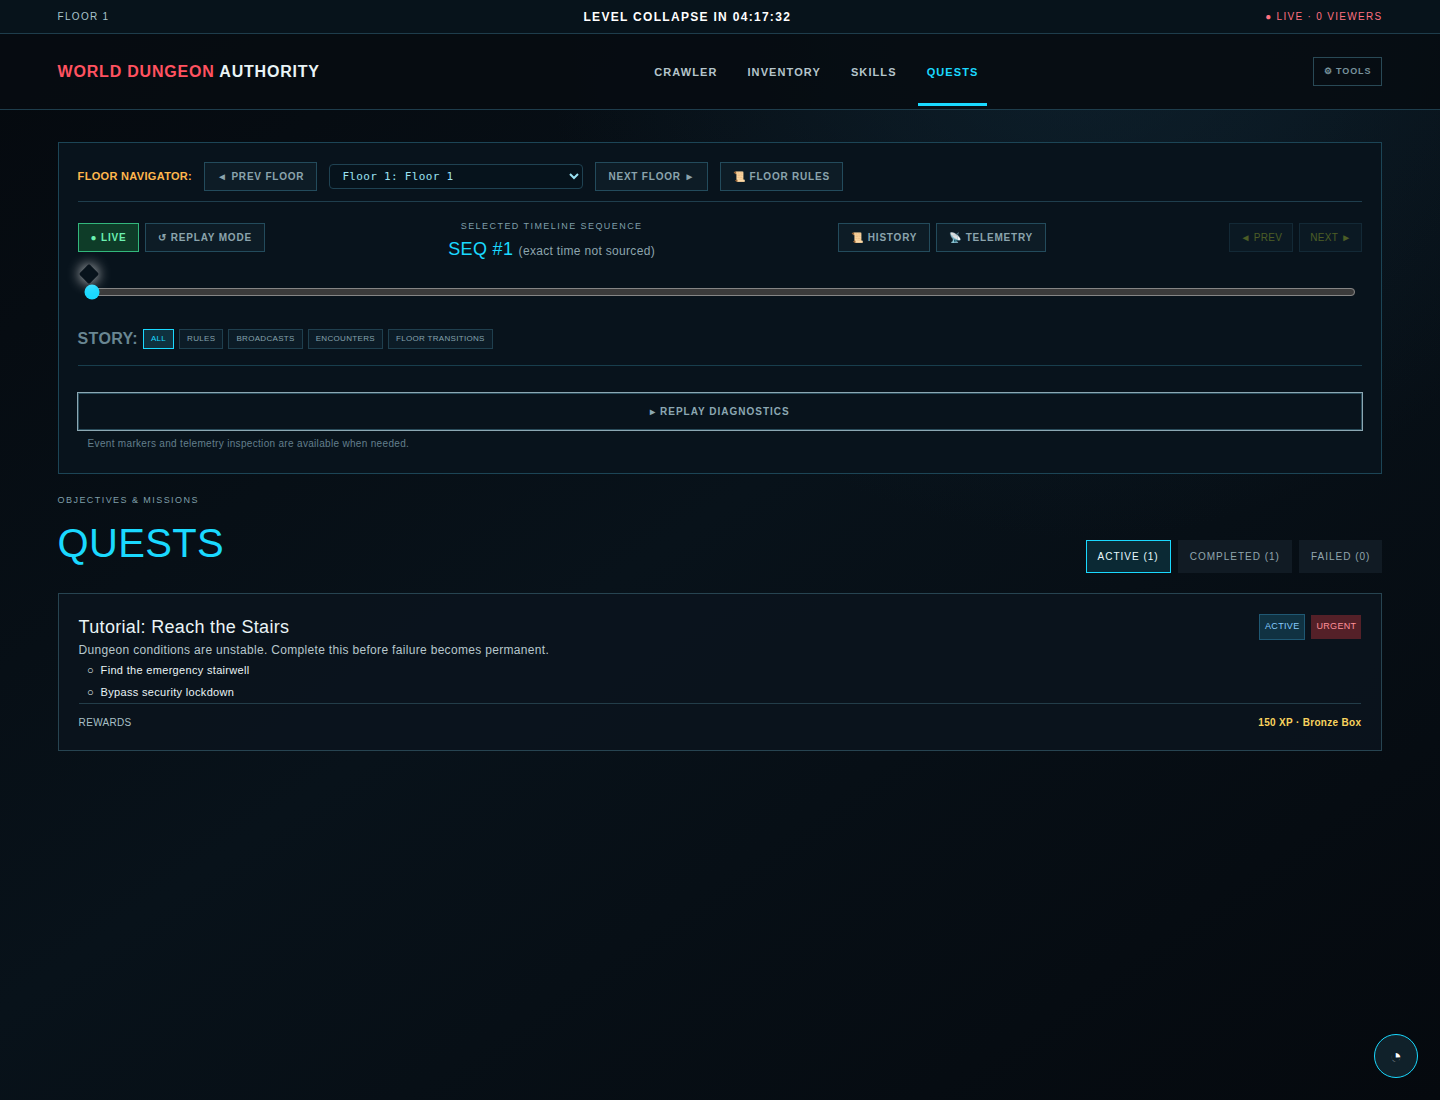
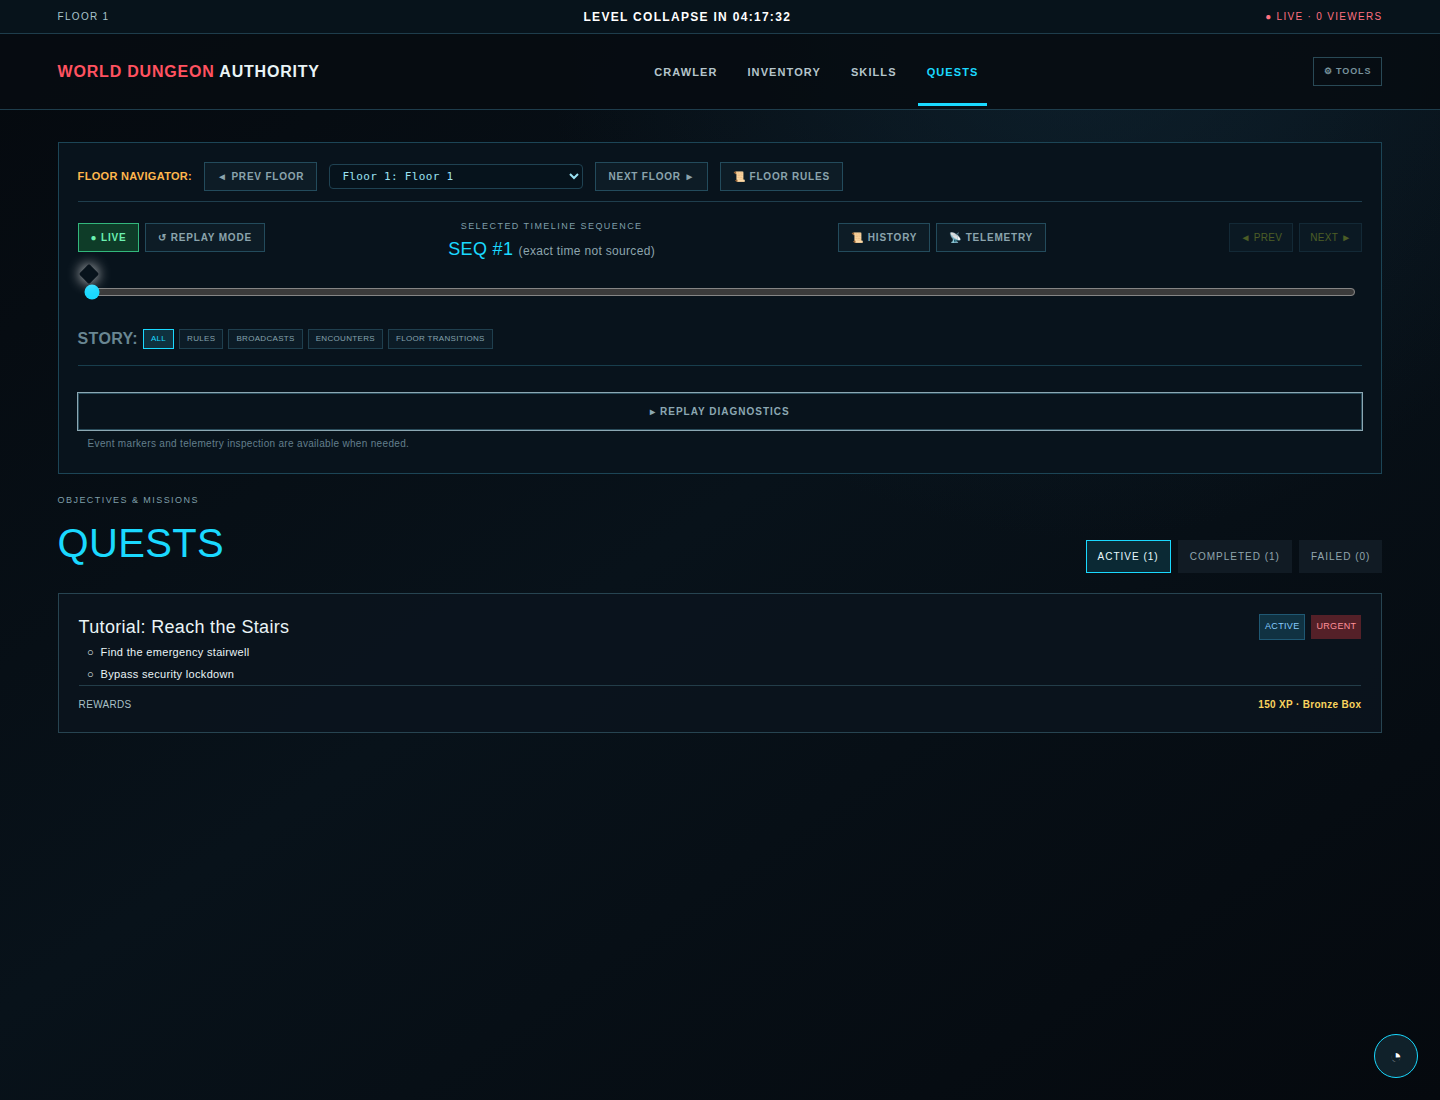
Handle quests with missing status and avoid empty quests view; add legacy fixture and update tests (#116)
* chore: remove unsupported quest screenshot

* chore: update Maritime architecture baseline

* fix: keep quest filter valid during replay

* test: cover quest filter replay fallback

* ci: force canonical screenshot regeneration

* chore: update Maritime architecture baseline

* test: keep screenshot scenarios on valid quest data

* docs(assets): refresh interface screenshots

---------

Changed region(s): [[0.0625, 0.5873, 0.375, 0.68], [0.875, 0.6182, 0.9375, 0.68]]

diff --git a/src/features/quests/QuestsView.tsx b/src/features/quests/QuestsView.tsx
@@ -7,28 +7,49 @@ interface QuestsViewProps {
   quests: Quest[];
 }
 
+type QuestFilter = "ACTIVE" | "COMPLETED" | "FAILED" | "UNKNOWN";
+type QuestWithStatus = Quest & { status: NonNullable<Quest["status"]> };
+
+function hasStatus(status: NonNullable<Quest["status"]>) {
+  return (quest: Quest): quest is QuestWithStatus => quest.status === status;
+}
+
 export function QuestsView({ quests }: QuestsViewProps) {
-  const [filter, setFilter] = useState<"ACTIVE" | "COMPLETED" | "FAILED">("ACTIVE");
+  const [filter, setFilter] = useState<QuestFilter>("ACTIVE");
 
   const activeQuests = useMemo(
-    () => quests.filter((q) => !q.status || q.status === "active"),
+    () => quests.filter(hasStatus("active")),
     [quests]
   );
   const completedQuests = useMemo(
-    () => quests.filter((q) => q.status === "completed"),
+    () => quests.filter(hasStatus("completed")),
     [quests]
   );
   const failedQuests = useMemo(
-    () => quests.filter((q) => q.status === "failed"),
+    () => quests.filter(hasStatus("failed")),
+    [quests]
+  );
+  const unknownQuests = useMemo(
+    () => quests.filter((quest) => quest.status === undefined),
     [quests]
   );
 
+  const hasUnknownQuests = unknownQuests.length > 0;
+  // Replay can move past the point where a statusless quest gains a known
+  // status. Keep the visible filter valid without synchronously setting state
+  // from an effect; if UNKNOWN is unavailable, present ACTIVE as the fallback.
+  const effectiveFilter: QuestFilter = filter === "UNKNOWN" && !hasUnknownQuests
+    ? "ACTIVE"
+    : filter;
+
   const displayedQuests =
-    filter === "ACTIVE"
+    effectiveFilter === "ACTIVE"
       ? activeQuests
-      : filter === "COMPLETED"
+      : effectiveFilter === "COMPLETED"
       ? completedQuests
-      : failedQuests;
+      : effectiveFilter === "FAILED"
+      ? failedQuests
+      : unknownQuests;
 
   return (
     <section className="view-content">
@@ -39,23 +60,31 @@ export function QuestsView({ quests }: QuestsViewProps) {
         </div>
         <div className="subnav" aria-label="Quest status filters">
           <button
-            className={filter === "ACTIVE" ? "on" : ""}
+            className={effectiveFilter === "ACTIVE" ? "on" : ""}
             onClick={() => setFilter("ACTIVE")}
           >
             ACTIVE ({activeQuests.length})
           </button>
           <button
-            className={filter === "COMPLETED" ? "on" : ""}
+            className={effectiveFilter === "COMPLETED" ? "on" : ""}
             onClick={() => setFilter("COMPLETED")}
           >
             COMPLETED ({completedQuests.length})
           </button>
           <button
-            className={filter === "FAILED" ? "on" : ""}
+            className={effectiveFilter === "FAILED" ? "on" : ""}
             onClick={() => setFilter("FAILED")}
           >
             FAILED ({failedQuests.length})
           </button>
+          {hasUnknownQuests && (
+            <button
+              className={effectiveFilter === "UNKNOWN" ? "on" : ""}
+              onClick={() => setFilter("UNKNOWN")}
+            >
+              UNKNOWN ({unknownQuests.length})
+            </button>
+          )}
         </div>
       </header>
 
@@ -73,11 +102,13 @@ export function QuestsView({ quests }: QuestsViewProps) {
           ))
         ) : (
           <p style={{ fontSize: "11px", color: "#8fa1aa", padding: "12px 0" }}>
-            {filter === "ACTIVE"
+            {effectiveFilter === "ACTIVE"
               ? "No active quests."
-              : filter === "COMPLETED"
+              : effectiveFilter === "COMPLETED"
               ? "No completed quests."
-              : "No failed quests."}
+              : effectiveFilter === "FAILED"
+              ? "No failed quests."
+              : "No quests with unknown status."}
           </p>
         )}
       </div>

diff --git a/src/CrawlerApp.tsx b/src/CrawlerApp.tsx
@@ -115,6 +115,12 @@ export default function CrawlerApp() {
     return projectState(timelineDoc, currentSeq);
   }, [timelineDoc, currentSeq]);
 
+  // Replay can move before the first quest was authored. Keep the selected
+  // root destination valid in that state rather than rendering an empty view.
+  const resolvedView: View = view === "quests" && projectedState.quests.length === 0
+    ? "crawler"
+    : view;
+
   const projectedObservations: ProjectedObservationsState = useMemo(() => {
     return projectObservations(timelineDoc, currentSeq);
   }, [timelineDoc, currentSeq]);
@@ -281,12 +287,12 @@ export default function CrawlerApp() {
       if (e.key === "1") setView("crawler");
       if (e.key === "2") setView("inventory");
       if (e.key === "3") setView("skills");
-      if (e.key === "4") setView("journal");
+      if (e.key === "4" && projectedState.quests.length > 0) setView("quests");
     };
 
     window.addEventListener("keydown", handleKeyDown);
     return () => window.removeEventListener("keydown", handleKeyDown);
-  }, [inspectStat, provenanceItem, showJsonModal, notes]);
+  }, [inspectStat, provenanceItem, showJsonModal, notes, projectedState.quests.length]);
 
   return (
     <main>
@@ -309,7 +315,7 @@ export default function CrawlerApp() {
       />
 
       <RootNavigation
-        active={view}
+        active={resolvedView}
         set={setView}
         hasQuests={projectedState.quests.length > 0}
         onOpenTools={() => { setImportError(null); setJsonText(""); setShowJsonModal(true); }}
@@ -368,7 +374,7 @@ export default function CrawlerApp() {
           onOpenTimelineEvidence={() => setShowTimelineEvidence(true)}
         />
 
-        {view === "crawler" ? (
+        {resolvedView === "crawler" ? (
           <Crawler
             state={projectedState}
             observations={projectedObservations}
@@ -379,7 +385,7 @@ export default function CrawlerApp() {
             onNavigateToEquipmentSlot={handleNavigateToEquipmentSlot}
             onEmitEvent={handleEmitEvent}
           />
-        ) : view === "inventory" ? (
+        ) : resolvedView === "inventory" ? (
           <Inventory
             state={projectedState}
             liveState={liveState}
@@ -399,9 +405,9 @@ export default function CrawlerApp() {
             onEmitEvent={handleEmitEvent}
             onInspectObservation={(obs) => setInspectObservation(obs)}
           />
-        ) : view === "skills" ? (
+        ) : resolvedView === "skills" ? (
           <Skills state={projectedState} onEmitEvent={handleEmitEvent} />
-        ) : view === "quests" && projectedState.quests.length > 0 ? (
+        ) : resolvedView === "quests" ? (
           <QuestsView quests={projectedState.quests} />
         ) : null}
       </div>

diff --git a/app/domain/fixtures/floor6.ts b/app/domain/fixtures/floor6.ts
@@ -1,5 +1,17 @@
-import type { CrawlerEvent, CrawlerTimelineDocument, Snapshot } from '../types.ts';
+import type { CrawlerEvent, CrawlerTimelineDocument, Quest, Snapshot } from '../types.ts';
 import { projectState } from '../projection.ts';
+
+/** Legacy initial state retained only for projection tests that exercise an explicit adapter. */
+export const legacyFloor6Quests: Quest[] = [
+  {
+    questId: 'q-stairwell',
+    title: 'Tutorial: Reach the Stairs',
+    urgency: 'URGENT',
+    goals: ['Find the emergency stairwell', 'Bypass the security lockdown'],
+    rewards: '150 XP · Bronze Box',
+    status: 'active',
+  },
+];
 
 export const floor6Timeline: CrawlerTimelineDocument = {
   schemaVersion: 'crawler-timeline/v1',

diff --git a/app/domain/projection.ts b/app/domain/projection.ts
@@ -9,24 +9,12 @@ import type {
   ItemRarity,
   QuantityObject,
   RewardSpec,
-  Quest,
   Skill,
   Snapshot,
   TimelineEvent,
   TimelineItem,
   TimelineState,
 } from './types.ts';
-
-export const defaultFloor6Quests: Quest[] = [
-  {
-    questId: 'q-stairwell',
-    title: 'Tutorial: Reach the Stairs',
-    urgency: 'URGENT',
-    goals: ['Find the emergency stairwell', 'Bypass the security lockdown'],
-    rewards: '150 XP · Bronze Box',
-    status: 'active',
-  },
-];
 
 function structuredRewards(value: unknown, legacyText?: unknown): RewardSpec[] {
   if (Array.isArray(value)) return value.map((reward) => ({ ...(reward as RewardSpec) }));

diff --git a/src/features/quests/QuestCard.tsx b/src/features/quests/QuestCard.tsx
@@ -14,9 +14,9 @@ export function QuestCard({
   urgency,
   goals,
   rewards,
-  status = "active",
+  status,
 }: QuestCardProps) {
-  const currentStatus = status || "active";
+  const currentStatus = status ?? "unknown";
   return (
     <article className={`quest ${currentStatus}`}>
       <header>
@@ -41,7 +41,6 @@ export function QuestCard({
           <i>{urgency}</i>
         </div>
       </header>
-      <p>Dungeon conditions are unstable. Complete this before failure becomes permanent.</p>
       <ul>
         {goals.map((x) => (
           <li key={x}>{x}</li>

diff --git a/.maritime/complexity-report.md b/.maritime/complexity-report.md
@@ -2,7 +2,7 @@
 
 **Last Updated:** 2026-08-30
 
-### 🏥 Repository Health Score: **77.0 / 100**
+### 🏥 Repository Health Score: **76.0 / 100**
 
 *   **Formula**: 100 - Penalties for Files exceeding thresholds (LOC > 300, Complexity > 10, Fan-Out > 15).
 *   **Total Graph Files**: 33
@@ -14,13 +14,13 @@ _Score = (LOC/10) + (Complexity*2) + (FanOut*2) + (Instability*20)_
 
 | File | Score | LOC | Complexity | Fan-Out | Instability |
 | :--- | :--- | :--- | :--- | :--- | :--- |
-| `app/domain/projection.ts` | **394.9** | 669 | 155 | 3 | 0.6 |
-| `src/CrawlerApp.tsx` | **329.4** | 1829 | 40 | 24 | 0.92 |
+| `app/domain/projection.ts` | **393.8** | 658 | 155 | 3 | 0.6 |
+| `src/CrawlerApp.tsx` | **330** | 1835 | 40 | 24 | 0.92 |
 | `app/domain/countdowns.ts` | **231.1** | 401 | 92 | 1 | 0.25 |
 | `app/domain/validation.ts` | **221.9** | 481 | 71 | 9 | 0.69 |
 | `src/features/timeline/TimelineScrubber.tsx` | **194.9** | 834 | 40 | 7 | 0.88 |
 | `app/domain/compiler.ts` | **128.2** | 329 | 39 | 2 | 0.67 |
-| `app/domain/fixtures/floor6.ts` | **102.2** | 762 | 1 | 2 | 1 |
+| `app/domain/fixtures/floor6.ts` | **103.4** | 774 | 1 | 2 | 1 |
 | `app/domain/observations.ts` | **96.2** | 322 | 29 | 1 | 0.2 |
 | `app/domain/types.ts` | **82.6** | 806 | 1 | 0 | 0 |
 | `app/components/TelemetryInspectorModal.tsx` | **69.6** | 186 | 15 | 3 | 0.75 |
@@ -28,10 +28,10 @@ _Score = (LOC/10) + (Complexity*2) + (FanOut*2) + (Instability*20)_
 ### 🧠 Top 10 Logic-Heavy Files (Cyclomatic Complexity)
 | File | Max Complexity | LOC |
 | :--- | :--- | :--- |
-| `app/domain/projection.ts` | **155** | 669 |
+| `app/domain/projection.ts` | **155** | 658 |
 | `app/domain/countdowns.ts` | **92** | 401 |
 | `app/domain/validation.ts` | **71** | 481 |
-| `src/CrawlerApp.tsx` | **40** | 1829 |
+| `src/CrawlerApp.tsx` | **40** | 1835 |
 | `src/features/timeline/TimelineScrubber.tsx` | **40** | 834 |
 | `app/domain/compiler.ts` | **39** | 329 |
 | `app/domain/observations.ts` | **29** | 322 |
